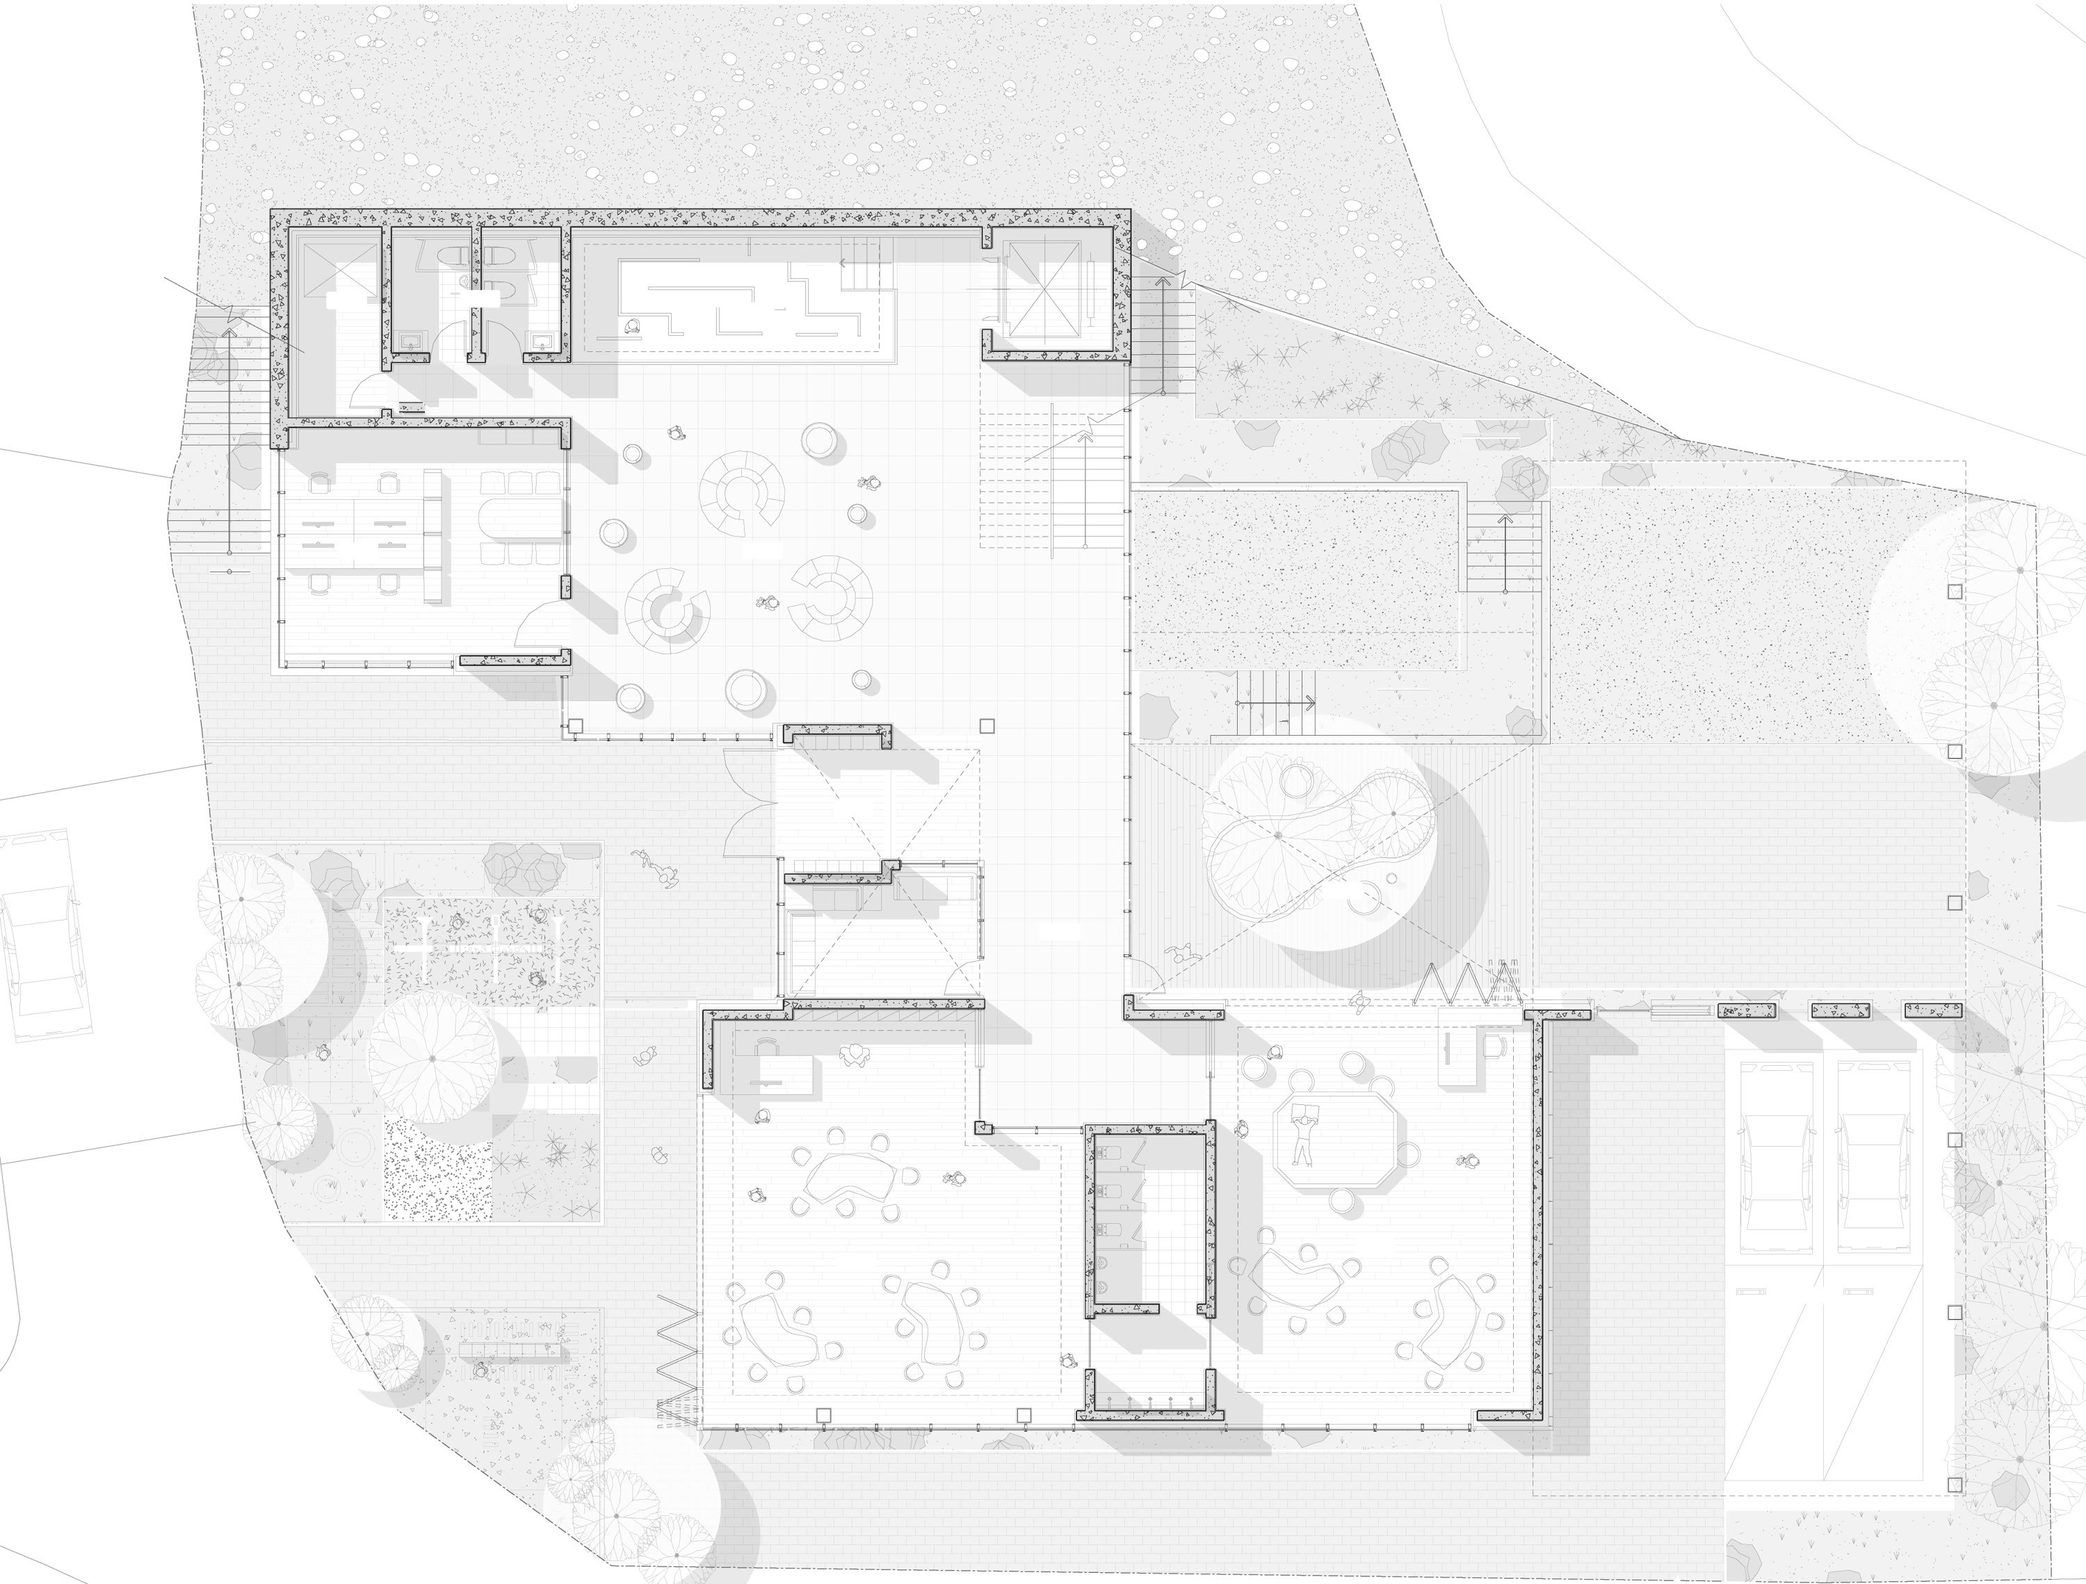
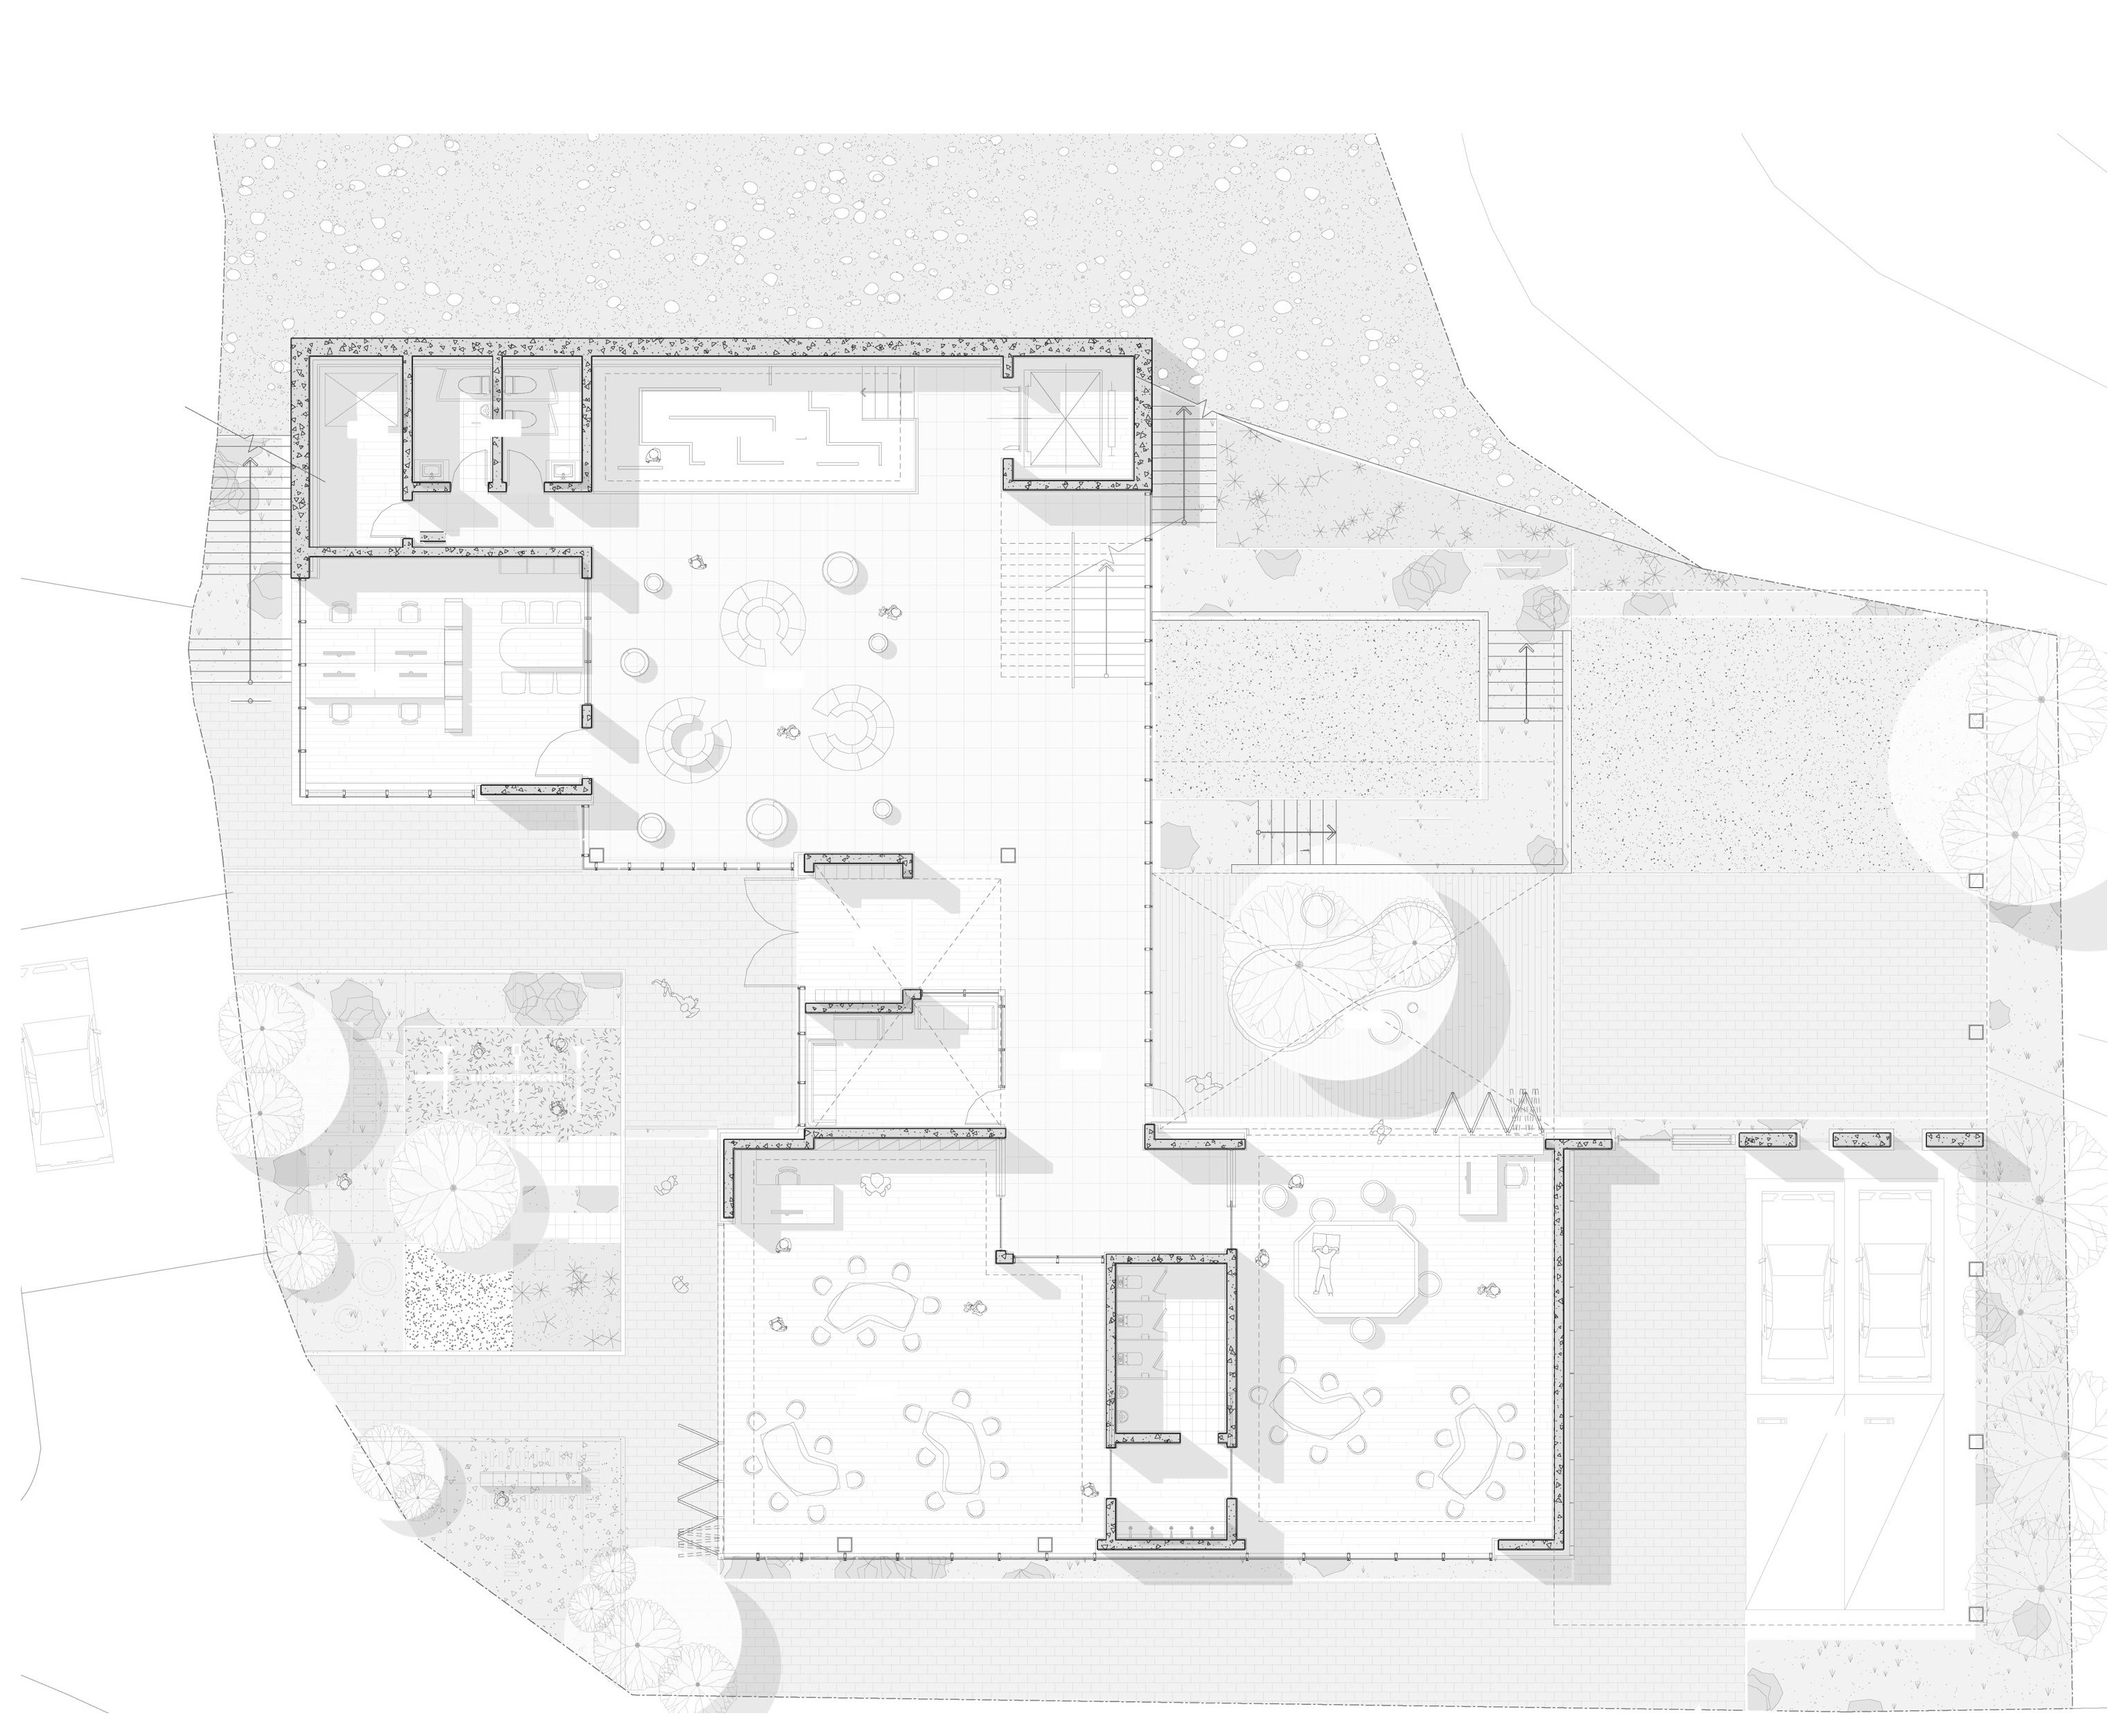
핀 #195·#197 (Natural Palette): 1F·2F·3F 평면을 같은 축척·자리로 맞춰(선 겹침, 2F·3F 배율 1.178) 평면 시뮬레이션(fplan) 한 섹션으로 — 스크롤로 낮은 층부터, 번호·방 이름·설명 목록

diff --git a/assets/js/data.js b/assets/js/data.js
@@ -2555,13 +2555,10 @@ const SITE = {
         text: "Classrooms open to yards, the corridor loops around the light well, and two entrances sit on two grounds of different height. Floor by floor, the ground changes from the road and the lake to the forest and the sky.",
         images: [],
         seq: {"kind":"frames","fade":true,"below":true,"r":1.1414,"steps":[{"src":"assets/img/natural-palette/strategy-a.jpg","t":"Classroom + yard","s":"Each classroom opens onto its own yard.","d":"The 5–6 class opens west through folding doors onto the play palette, the 7 class north onto the play deck. With the doors open, room and yard become one play space, and the deck steps on to the sand yard and the garden.","tags":[[63.4,26.7,"Garden +1.8","c","m"],[63.7,41.4,"Sand yard +0.8","c","m"],[63.7,54.5,"Play deck ±0","c","m"],[19.3,68.3,"Play palette","c","m"],[41,51.2,"Welcome room","c","m"],[40.1,77.7,"Class 5–6","c","i"],[65.6,77.7,"Class 7","c","i"]]},{"src":"assets/img/natural-palette/strategy-b.jpg","t":"A loop around the light well","s":"The second-floor corridor goes once around the light well.","d":"It links the dining room, floor play, the assembly hall and the hall. With no dead end, children never walk back the same way, and all along they see the play deck below and the sky above. The north side of the well becomes a bridge over the sand yard.","tags":[[23.2,4.1,"Forest entrance +3.9","","m"],[21.3,19.7,"Director · counselling","c","m"],[15.4,37.7,"Special class","c","i"],[32.6,45.3,"Hall — open three floors","c","m"],[63.1,59.5,"Light well","c","m"],[84.9,53.1,"Floor play","c","m"],[45.6,80.4,"Dining","c","m"],[68.7,80.9,"Kitchen","c","m"],[86.4,78,"Assembly hall","c","m"]]},{"src":"assets/img/natural-palette/strategy-c.jpg","t":"Two grounds, two doors","s":"The main door on the lakeside road, the forest door on the hill.","d":"Main entrance on the first floor (S.L ±0), forest entrance on the second (S.L +3.9). Inside, the hall stair and the lift join the two grounds; outside, the play grounds do — deck, sand, garden, small forest.","tags":[[21.5,28.1,"Forest entrance · 2F","","m"],[80.9,34,"Main entrance · 1F","","m"],[94.3,30.1,"S.L +3.9","","m"],[94.3,35.7,"S.L ±0","","m"],[10.1,78.3,"1F indoor","c","m"],[24.3,78.3,"Play deck ±0","c","m"],[38.1,71.9,"Sand +0.8","c","m"],[53.5,64.4,"Garden +1.8","c","m"],[68,56.5,"Small forest +2.8","c","m"],[82.8,48.9,"Forest · 2F +3.8","c","m"]]},{"src":"assets/img/natural-palette/strategy-d.jpg","t":"Program by floor","s":"A different ground on each floor.","d":"First floor, the ground of the road and the lake: classrooms, the welcome room, the open library. Second, the ground of the forest: big rooms — dining, assembly, floor play — and the special class. Third, the ground of the sky: the roof garden, the sun terrace and the open classroom on the roof.","tags":[[3.7,7.3,"3F — ground of the sky · S.L +7.6","","m"],[3.7,41.8,"2F — ground of the forest · S.L +3.9","","m"],[3.7,77.6,"1F — ground of the road and lake · S.L ±0","","m"],[30.4,6.8,"Open classroom","c","i"],[21.8,47.7,"Special class","c","i"],[49.6,89.9,"Class","c","i"],[65.3,86.4,"Class","c","i"],[37.1,77.3,"Library","c","m"],[80.2,50.6,"Assembly hall","c","m"],[54.3,56.5,"Dining","c","m"]]}]} },
-      { heading: "Ground Floor — the Lake Side", big: true, // KG-03A
-        text: "The first floor starts level with the road (S.L ±0). Past the entrance and the welcome room are the hall that threads three floors and the open library; to the east, the play deck and the sand yard reach right up to the classrooms. The 5–6 and 7 classrooms open through folding doors to the deck and the yard by the road.",
-        images: [{"src":"assets/img/natural-palette/plan-1f.jpg","caption":"Ground floor plan, S.L ±0 — opening to the road, the deck and the sand","r":1.3169,"tags":[[17.3,17.7,"Plant","c","m"],[22.6,17.7,"WC","c","m"],[35,17.4,"Maze play −0.85","c","m"],[16.9,33.5,"Staff","c","m"],[23.5,32.9,"Meeting","c","m"],[36.8,32.6,"Open library","c","b"],[62.5,37,"Sand yard 7.8 × 4.4 m","c","m"],[40.3,50.1,"Entrance hall","c","m"],[42.7,59.2,"Welcome room","c","m"],[63.9,54.6,"Play deck","c","b"],[26.2,67.7,"Play palette","c","b"],[40,78.6,"Class 5–6","c","b"],[55,76.1,"WC","c","m"],[65.1,77.7,"Class 7","c","b"],[86.9,80.1,"Parking","c","m"],[23.8,88.5,"Drop zone","c","m"],[7.2,79.2,"Main entrance →","c","m"]],"w":"100%"}] },
-      { heading: "Upper Floors — the Hill Side", big: true, // KG-03B
-        text: "The second floor is entered from the forest ground through the forest entrance. Dining and kitchen, the assembly hall and the special class are on this floor, with the garden yard and the forest yard to the west. The third floor opens to the forest and the sky: a hand-wash corner over the hall, the open classroom on the roof and the sun terrace.",
-        cols: 2,
-        images: [{"src":"assets/img/natural-palette/plan-2f.jpg","caption":"2F, S.L +3.9 — forest entrance floor","r":1.2197,"tags":[[12.5,15.7,"Director","c","m"],[20.1,16.2,"Counsel","c","m"],[26.3,15.7,"Entry","c","m"],[34.3,15.7,"WC","c","m"],[43.8,7.1,"Terrace","c","m"],[56.6,7.6,"Forest yard","c","m"],[63.3,24,"Garden yard","c","m"],[16,37.7,"Special class","c","b"],[34.3,34.4,"Hall","c","b"],[61.1,38.8,"Sand yard below","c","m"],[84.1,38,"Terrace","c","m"],[86,51.2,"Floor play","c","b"],[63.3,59.5,"Light well","c","b"],[22.8,71.9,"Play palette below","c","m"],[40.2,79.8,"Staff dining","c","m"],[52.6,81.8,"Dining","c","b"],[68,87.1,"Kitchen","c","m"],[87.4,81.5,"Assembly hall","c","b"],[4.3,11.1,"Forest entrance →","","m"]]},{"src":"assets/img/natural-palette/plan-3f.jpg","caption":"3F, S.L +7.6 — roof classroom","r":1.2197,"tags":[[17.7,8.8,"Roof garden","c","b"],[33.5,8.8,"Open classroom","c","b"],[17.5,33.1,"Sun terrace","c","b"],[48.5,47.4,"Hand-wash corner","c","b"],[34.4,41.6,"Hall below","c","m"]]}] },
+      { heading: "Three Floors on One Slope", big: true, // 핀 #195: 평면 시뮬레이션 — 1F(KG-03A)·2F·3F(KG-03B)를 같은 축척·같은 자리로 맞춰 스크롤로 층이 바뀜
+        text: "The first floor starts level with the road (S.L ±0): past the entrance and the welcome room are the hall that threads three floors and the open library, and the classrooms open through folding doors to the deck and the yards. The second floor is entered from the forest ground — dining and kitchen, the assembly hall and the special class. The third floor opens to the forest and the sky. Scroll through the floors; each number is named beside the plan.",
+        images: [],
+        fplan: {"r":1.2269,"floors":[{"t":"1F","s":"S.L ±0 · lake side","src":"assets/img/natural-palette/plan-1f.jpg","items":[[1,17.94,23.62,"Plant","Mechanical and electrical room, tucked into the slope."],[2,23.14,23.62,"WC","Toilets sized for children, beside the rooms they serve."],[3,35.29,23.35,"Maze play","An open exhibition maze sunk 0.85 m below the floor."],[4,17.55,38.06,"Staff","Teachers' room, looking over the hall."],[5,24.02,37.51,"Meeting","Meeting room for teachers and parents."],[6,37.06,37.23,"Open library","Books in the open, at the foot of the hall."],[7,62.25,41.25,"Sand yard","Sand play at +0.8, one step above the deck."],[8,40.49,53.22,"Entrance hall","The way in from the road side."],[9,42.84,61.53,"Welcome room","Where parents wait and children are handed over."],[10,63.63,57.33,"Play deck","Outdoor deck at ±0 under the light well, joined to Class 7."],[11,26.67,69.29,"Play palette","The classroom yard — folding doors open the room onto it."],[12,40.2,79.25,"Class 5–6","Classroom for five- and six-year-olds, opening west to the play palette."],[13,54.9,76.97,"WC","Toilets sized for children, beside the rooms they serve."],[14,64.8,78.43,"Class 7","Classroom for seven-year-olds, opening north onto the play deck."],[15,86.18,80.62,"Parking","Parking at the road edge, so cars stop at the front."],[16,24.31,88.29,"Drop zone","Drop-off lane off the lakeside road."],[17,8.04,79.8,"Main entrance","Main entrance at road level, S.L ±0."]]},{"t":"2F","s":"S.L +3.9 · forest side","src":"assets/img/natural-palette/plan-2f.jpg","items":[[1,16.52,17.48,"Director","Director's office by the forest entrance."],[2,23.54,17.95,"Counsel","Counselling room for parents."],[3,29.27,17.48,"Entry","Lobby of the forest entrance."],[4,36.66,17.48,"WC","Toilets sized for children, beside the rooms they serve."],[5,45.44,9.49,"Terrace","A terrace on the roof of the floor below."],[6,57.26,9.95,"Forest yard","Forest play joined to the hill path."],[7,63.45,25.2,"Garden yard","Kitchen-garden play at +1.8, close to the dining room."],[8,19.75,37.93,"Special class","Special class with its own garden side."],[9,36.66,34.86,"Hall","The hall that threads all three floors."],[10,61.42,38.95,"Sand yard below","Looking down onto the sand yard."],[11,82.67,38.21,"Terrace","A terrace on the roof of the floor below."],[12,84.42,50.48,"Floor play","Indoor play on the floor, around the light well."],[13,63.45,58.2,"Light well","The open well that brings light and eyes down to the deck."],[14,26.03,69.72,"Play palette below","The classroom yard one floor down."],[15,42.11,77.07,"Staff dining","Dining for teachers, beside the kitchen."],[16,53.57,78.92,"Dining","Children's dining room, next to the kitchen."],[17,67.79,83.85,"Kitchen","Kitchen serving the dining room."],[18,85.72,78.65,"Assembly hall","A tall room for games, shows and rainy days."],[19,8.94,13.2,"Forest entrance","Second entrance from the forest ground, S.L +3.9."]]},{"t":"3F","s":"S.L +7.6 · roof","src":"assets/img/natural-palette/plan-3f.jpg","items":[[1,20.41,9.38,"Roof garden","Planted roof over the floor below."],[2,35,9.38,"Open classroom","A classroom on the roof, open to the forest and the sky."],[3,20.22,31.97,"Sun terrace","Sunny deck on the roof."],[4,48.86,45.26,"Hand-wash corner","Hand-washing over the hall."],[5,35.84,39.87,"Hall below","The hall seen from the top floor."]]}]} },
       { heading: "Classroom Unit — a Room That Becomes a Yard", big: true, // KG-12
         text: "The two classrooms on the first floor share the toilets in the middle and open three ways: sliding doors to the corridor by the welcome room, the 5–6 class's folding doors to the play palette, the 7 class's folding doors to the play deck under the light well. How far the doors open decides whether the classroom is a room, a corridor or a yard.",
         images: [{"src":"assets/img/natural-palette/unit.jpg","caption":"Classroom unit 1/100 — two classrooms, one shared core, three ways to open","r":1.4191,"tags":[[32,11.3,"Entrance hall","c","m"],[36.6,29.2,"Welcome room","c","m"],[75.8,20.2,"Play deck","c","m"],[6.1,46.1,"Play palette","c","m"],[32.5,67.5,"Class 5–6","c","b"],[59.3,62.6,"WC","c","m"],[77.7,65.2,"Class 7","c","b"],[19.5,79.4,"1","c","pt"],[88.9,35.9,"2","c","pt"],[47.2,43.1,"3","c","pt"],[58.7,43.1,"3","c","pt"],[60.2,71.4,"4","c","pt"],[79.8,81.8,"5","c","pt"],[28.6,41.4,"6","c","pt"]],"w":"100%","notes":[["1","Folding doors","to the play palette"],["2","Folding doors","to the play deck"],["3","Sliding doors","to the welcome room and the corridor"],["4","Shared toilets","used by both classrooms"],["5","Coffered ceiling","raised in each classroom"],["6","Teacher's desk","at the corner by the corridor"]]}] },
